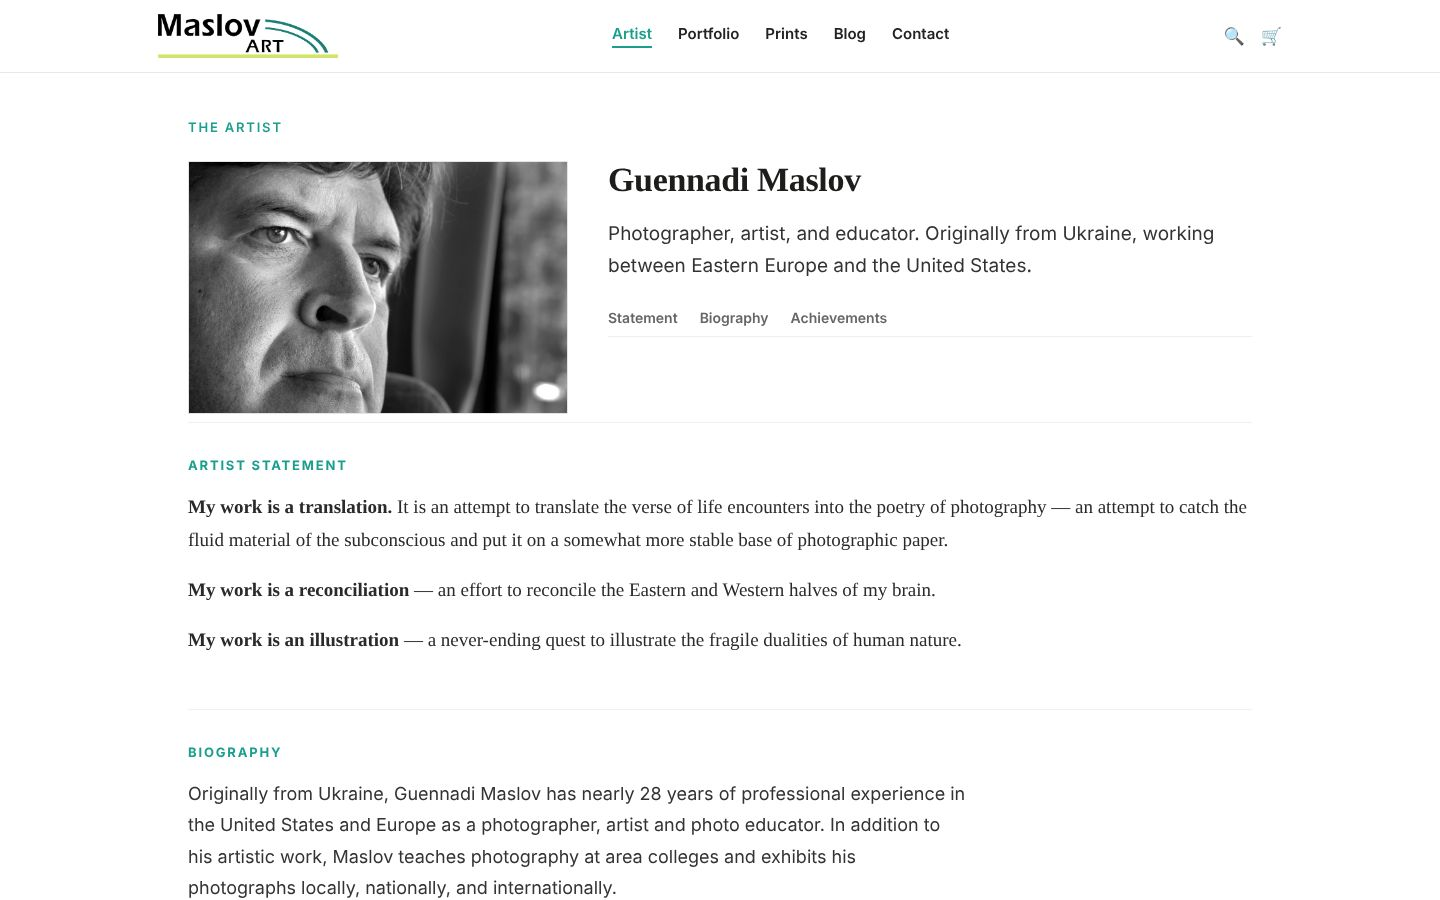
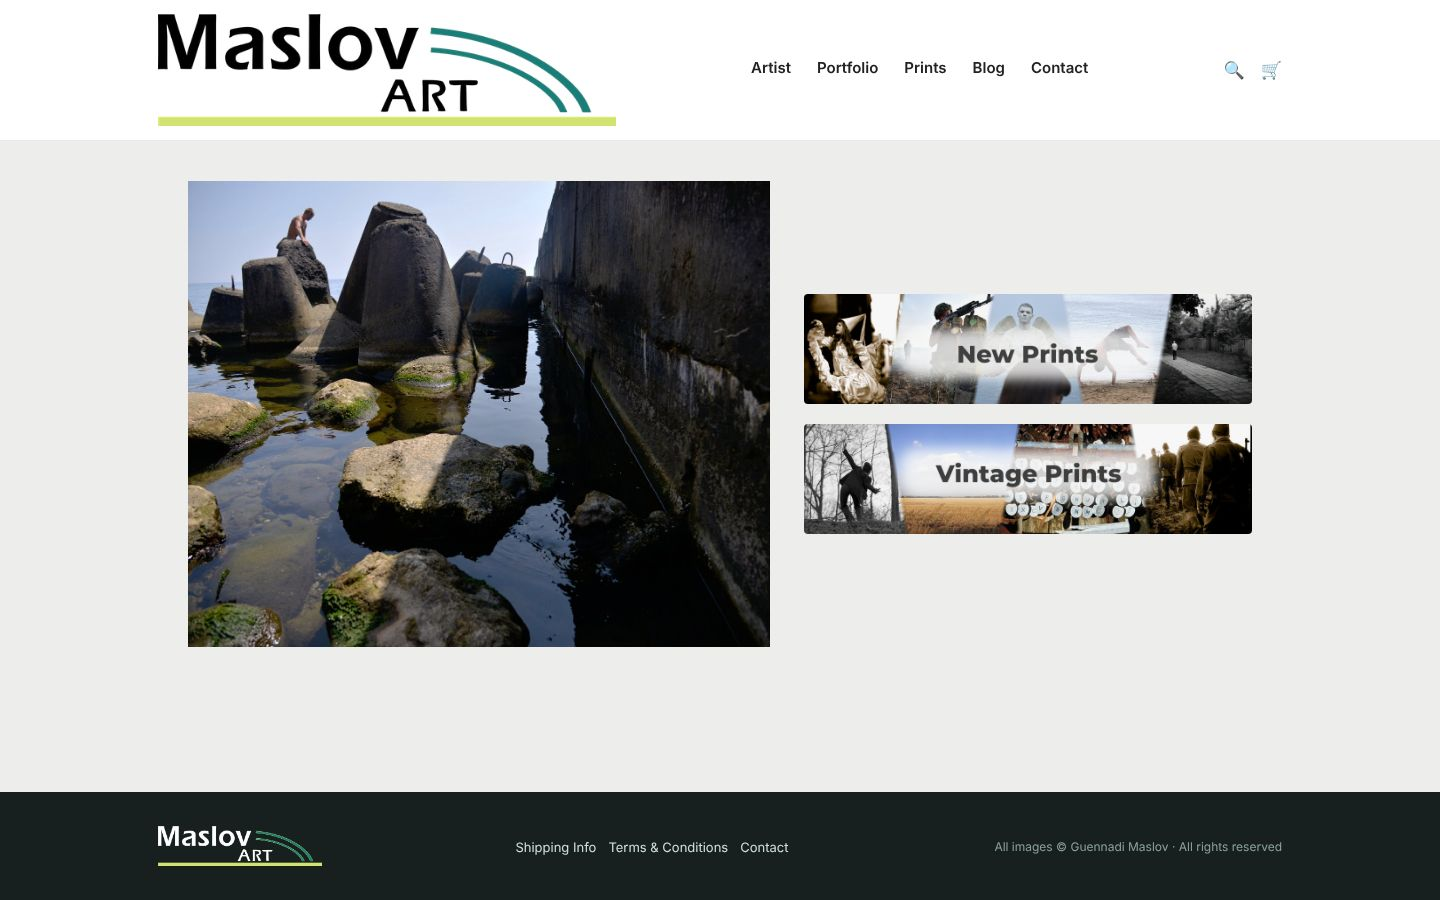
Landing page: show the homepage on both Version 2 tiles
Alan wants all four tiles to show the homepage so Guennadi isn't confused.

Claude-Session: https://claude.ai/code/session_01AbfReMsJsVPRH8J5HCZgyH

diff --git a/README.md b/README.md
@@ -9,7 +9,7 @@ It is plain HTML with no build step, so Netlify can publish this folder as-is.
   `mobile.html` shows it inside a phone-sized frame.
 - Version 2 (where Guennadi's changes go): `site-v2.html`, `desktop-v2.html`, `mobile-v2.html`.
 - `images/previews/` holds the screenshots used on the landing page tiles.
-  Retake the `-v2` ones when Version 2 changes.
+  All four tiles show the homepage, so the versions look alike on the landing page.
 
 These files came from `MaslovArt_WebsiteSpecs.afpub.zip`.
 
